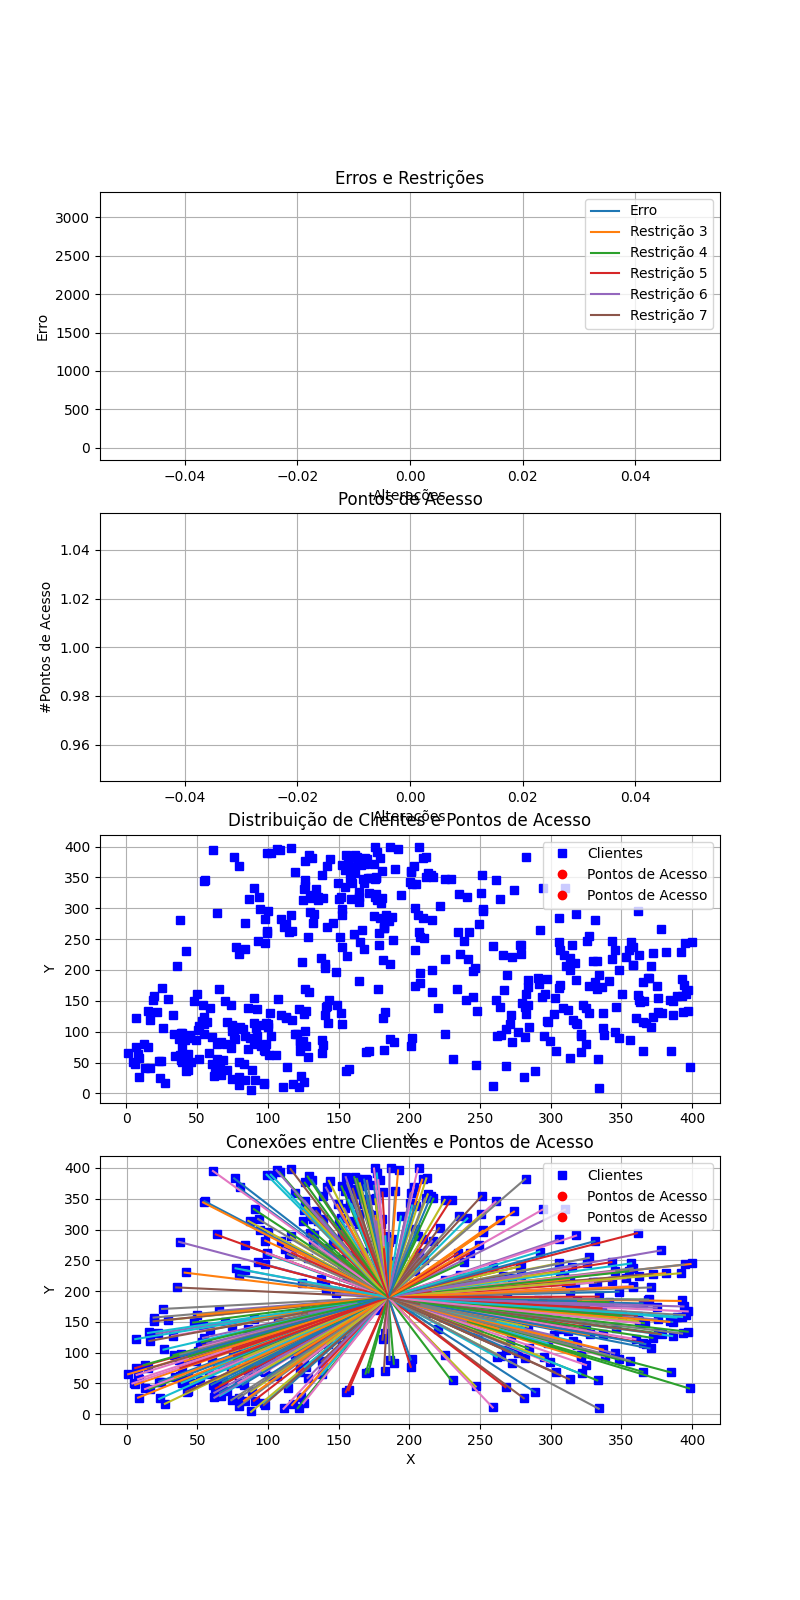
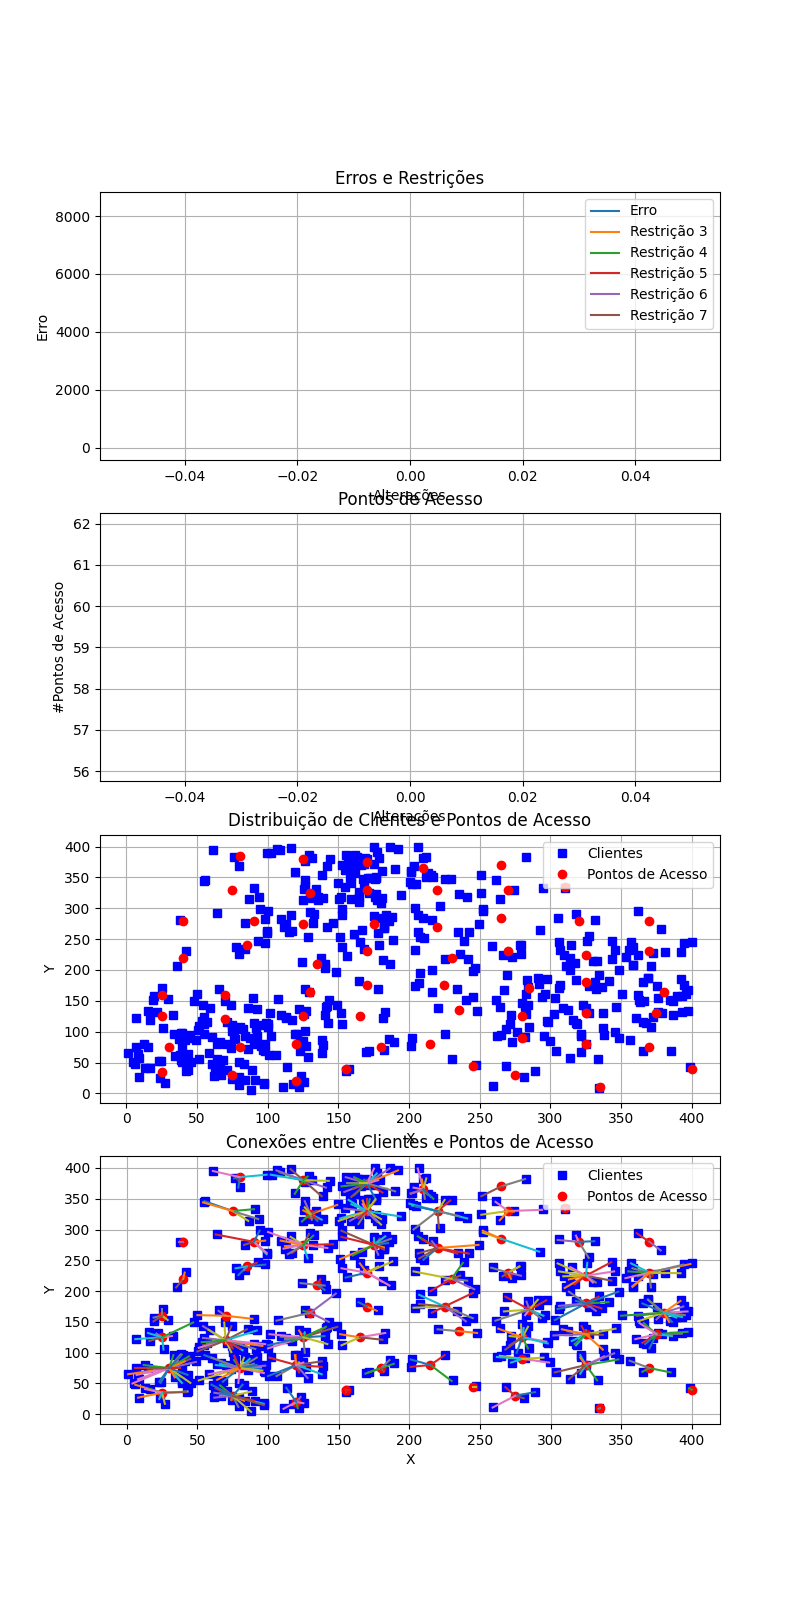
adjusting sol_zero

diff --git a/1 entrega/mop_solution/solution.py b/1 entrega/mop_solution/solution.py
@@ -1,66 +1,58 @@
 import numpy as np
 from sklearn.cluster import DBSCAN
 
-def sol_zero(dados):
-    eps = 50  # Distância máxima entre dois pontos para que um seja considerado como vizinho do outro
-    db = get_clusters(np.array(dados['coord_clientes']), eps=eps)
-    labels = db.labels_
-
-    # Encontrar as coordenadas dos PAs como centróides dos clusters
-    unique_labels = set(labels)
-    unique_labels.discard(-1)  # Remove o rótulo de ruído
-    print(unique_labels)
-
+def sol_zero(dados, tamanho_quadrado=50):
+    sizex = dados['sizex'][1]
+    sizey = dados['sizey'][1]
     coord_clientes = dados['coord_clientes']
     num_clientes = len(coord_clientes)
-    n_max_possivel_PAs = dados['cliente_por_PA'].shape[1]
-    num_possiveis_alocacoes = dados['possiveis_coord_PA'].shape[0]
+    possiveis_coord_PA = dados['possiveis_coord_PA']
+    n_max_possivel_PAs = len(possiveis_coord_PA)
 
-    # Verificar se o número de clusters é maior que o número máximo de PAs
-    if len(unique_labels) > n_max_possivel_PAs:
-        unique_labels = set(list(unique_labels)[:n_max_possivel_PAs])
+    # Calcular o número de quadrados em cada dimensão
+    num_quadrados_x = int(np.ceil(sizex / tamanho_quadrado))
+    num_quadrados_y = int(np.ceil(sizey / tamanho_quadrado))
 
-    label_to_pa_index = {label: idx for idx, label in enumerate(unique_labels)}
+    # Criar uma grade de quadrados
+    grade_quadrados = np.zeros((num_quadrados_x, num_quadrados_y), dtype=int)
 
-    # Inicializar a matriz uso_PAs
-    uso_PAs = [False] * num_possiveis_alocacoes
+    # Atribuir cada ponto a um quadrado
+    for i, coord in enumerate(coord_clientes):
+        x_index = int(coord[0] // tamanho_quadrado)
+        y_index = int(coord[1] // tamanho_quadrado)
+        grade_quadrados[x_index, y_index] += 1
 
-    for label in unique_labels:
-        cluster_points = coord_clientes[labels == label]
-        centroid = cluster_points.mean(axis=0)
-        posicao_PA = np.round(centroid / 5) * 5
-        print(posicao_PA)
+    # Inicializar arrays para centroides e uso de PAs
+    uso_PAs = np.zeros(n_max_possivel_PAs, dtype=bool)
 
+    # Calcular centroides para cada quadrado com pelo menos um cliente
+    for x in range(num_quadrados_x):
+        for y in range(num_quadrados_y):
+            if grade_quadrados[x, y] > 0:
+                # Encontrar clientes neste quadrado
+                clientes_no_quadrado = coord_clientes[(coord_clientes[:, 0] >= x * tamanho_quadrado) &
+                                                      (coord_clientes[:, 0] < (x + 1) * tamanho_quadrado) &
+                                                      (coord_clientes[:, 1] >= y * tamanho_quadrado) &
+                                                      (coord_clientes[:, 1] < (y + 1) * tamanho_quadrado)]
 
-        pa_index = label_to_pa_index[label]
-        dados['possiveis_coord_PA'][pa_index] = posicao_PA
-        uso_PAs[pa_index] = True
-        
-        # Atribuir clientes ao PA mais próximo
-        for i, coord in enumerate(coord_clientes):
-            if labels[i] == label:
-                dados['cliente_por_PA'][i, pa_index] = 1
+                # Calcular o centroide
+                centroid = np.mean(clientes_no_quadrado, axis=0)
+                posicao_PA = np.round(centroid / 5) * 5
 
-    # Atualiza os dados
+                # Encontrar o índice disponível para PA
+                pa_index = np.where(~uso_PAs)[0][0]
+
+                # Atualizar dados
+                possiveis_coord_PA[pa_index] = posicao_PA
+                uso_PAs[pa_index] = True
+
+                # Atribuir clientes ao PA mais próximo
+                for i, coord in enumerate(coord_clientes):
+                    if x * tamanho_quadrado <= coord[0] < (x + 1) * tamanho_quadrado and \
+                       y * tamanho_quadrado <= coord[1] < (y + 1) * tamanho_quadrado:
+                        dados['cliente_por_PA'][i, pa_index] = 1
+
+    # Atualizar dados
     dados['uso_PAs'] = uso_PAs
 
     return dados
-
-def get_clusters(coord_clientes, eps=3, min_samples=5, min_min_samples=1):
-    while True:
-        # Aplicar o DBSCAN
-        db = DBSCAN(eps=eps, min_samples=min_samples).fit(coord_clientes)
-        labels = db.labels_
-
-        # Encontrar o número de clusters (rótulos únicos, excluindo ruído)
-        unique_labels = set(labels)
-        unique_labels.discard(-1)  # Remove o rótulo de ruído
-
-        # Verificar se pelo menos dois clusters foram encontrados
-        if len(unique_labels) >= 3 or min_samples <= min_min_samples:
-            break
-
-        # Reduzir min_samples pela metade, garantindo que não vá abaixo de 1
-        min_samples = max(min_samples // 2, min_min_samples)
-
-    return db  # Retorna o objeto DBSCAN ajustado
